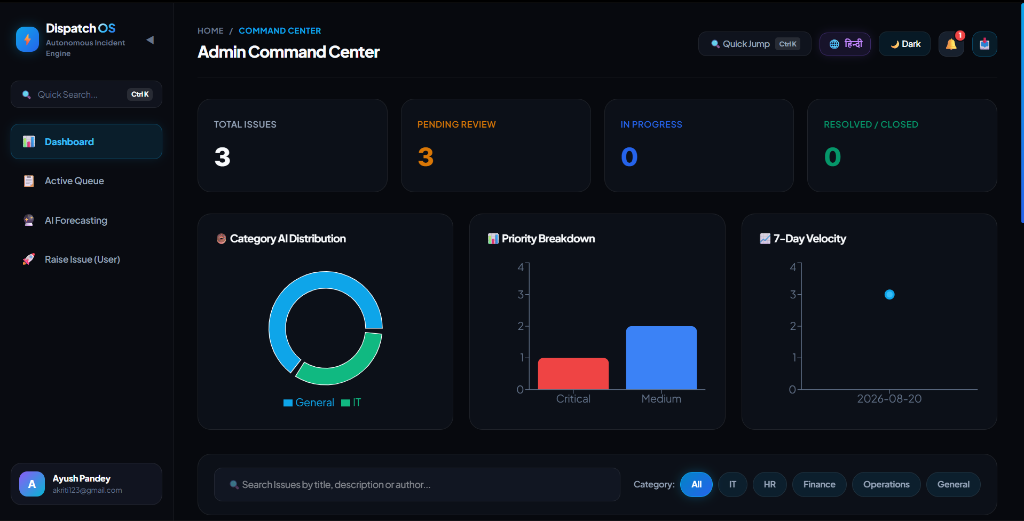
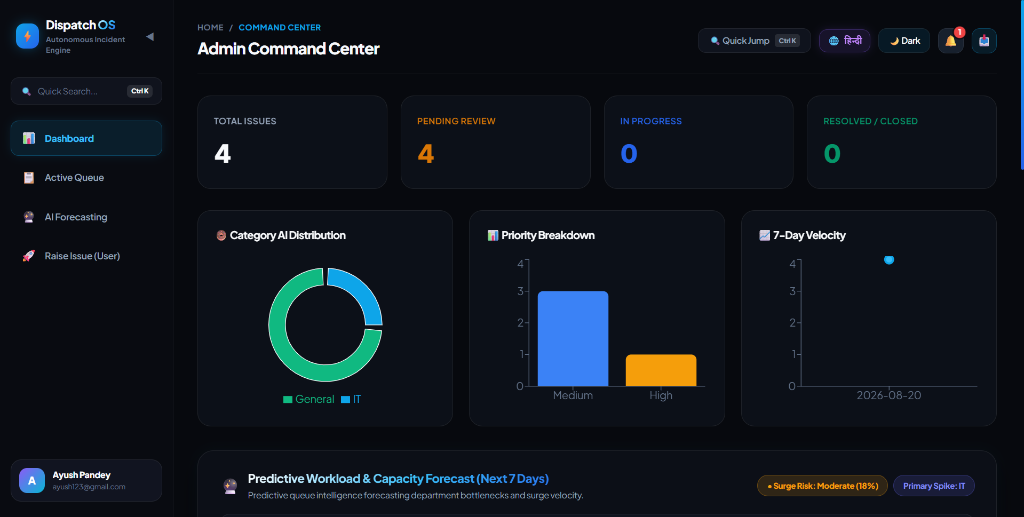
Update README with 3 clean, high-resolution UI screenshots

diff --git a/README.md b/README.md
@@ -15,10 +15,13 @@
 ## 🖥 Platform Showcase
 
 <div align="center">
-  <p><strong>Admin Command Center & AI Analytics Hub</strong></p>
+  <p><strong>1. Admin Command Center & Real-Time Predictive AI Analytics Hub</strong></p>
   <img src="./docs/screenshots/admin-dashboard.png" alt="Dispatch OS Admin Dashboard" width="100%" style="border-radius: 12px; border: 1px solid #1e293b;" />
   <br /><br />
-  <p><strong>Interactive Landing Page with Incident Dispatch Pipeline</strong></p>
+  <p><strong>2. User Incident Portal with Real-Time AI Autonomous Triage</strong></p>
+  <img src="./docs/screenshots/user-dashboard.png" alt="Dispatch OS User Incident Portal" width="100%" style="border-radius: 12px; border: 1px solid #1e293b;" />
+  <br /><br />
+  <p><strong>3. Enterprise Landing Page & Live Incident Dispatch Pipeline</strong></p>
   <img src="./docs/screenshots/landing-page.png" alt="Dispatch OS Landing Page" width="100%" style="border-radius: 12px; border: 1px solid #1e293b;" />
 </div>
 
